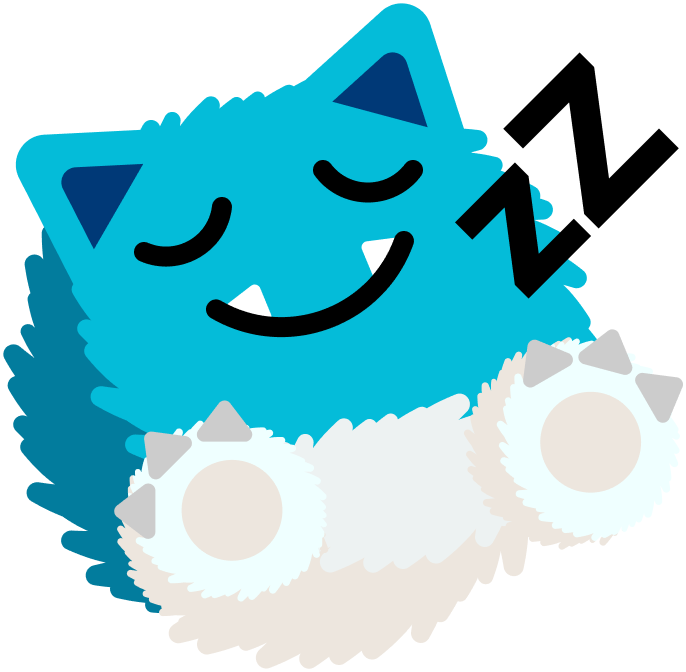
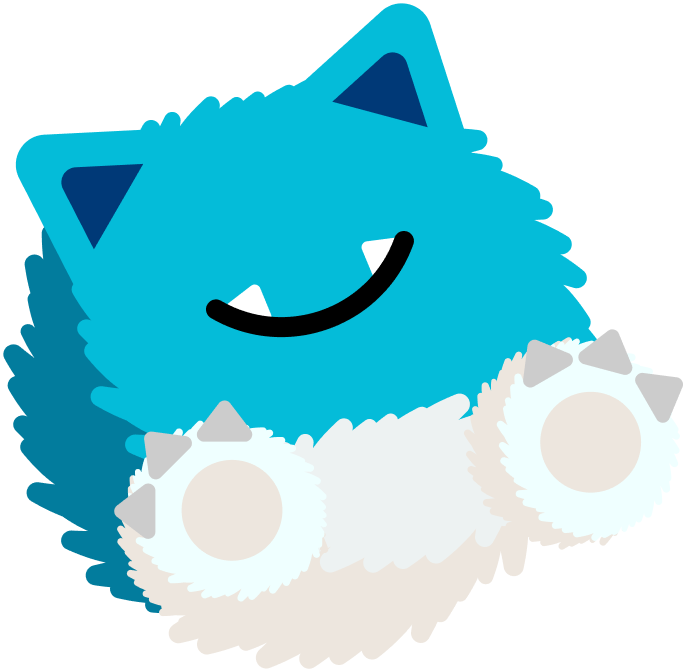
feat: interactive SleepyMascot with CSS eyes and Zzz animation

Changed region(s): [[0.6429, 0.0625, 1.0, 0.4375], [0.1837, 0.2812, 0.3367, 0.4062], [0.4592, 0.2188, 0.6122, 0.3125]]

diff --git a/src/components/SleepyMascot.css b/src/components/SleepyMascot.css
@@ -1,0 +1,156 @@
+.mascot {
+  position: relative;
+  width: 40%;
+  max-width: 10rem;
+  align-self: center;
+  cursor: pointer;
+  user-select: none;
+  -webkit-tap-highlight-color: transparent;
+}
+
+.mascot-img {
+  width: 100%;
+  height: auto;
+  display: block;
+  transition: transform 0.3s ease;
+}
+
+/* Bounce on wake */
+.mascot--awake .mascot-img {
+  animation: mascot-bounce 0.4s ease;
+}
+
+@keyframes mascot-bounce {
+  0% { transform: translateY(0); }
+  30% { transform: translateY(-8%); }
+  50% { transform: translateY(0); }
+  70% { transform: translateY(-4%); }
+  100% { transform: translateY(0); }
+}
+
+/* ── Eyes container ── */
+.mascot-eyes {
+  position: absolute;
+  top: 30%;
+  left: 22%;
+  width: 42%;
+  display: flex;
+  justify-content: space-between;
+}
+
+.mascot-eye {
+  position: relative;
+  width: 38%;
+  aspect-ratio: 1;
+}
+
+/* ── Closed eyes (curved lines) ── */
+.mascot-eye-closed {
+  position: absolute;
+  inset: 0;
+  display: flex;
+  align-items: center;
+  justify-content: center;
+  transition: opacity 0.2s ease;
+}
+
+.mascot-eye-closed::after {
+  content: '';
+  width: 80%;
+  height: 3px;
+  background: #1a1a1a;
+  border-radius: 50%;
+  transform: scaleY(2);
+  clip-path: ellipse(50% 100% at 50% 0%);
+}
+
+.mascot--awake .mascot-eye-closed {
+  opacity: 0;
+}
+
+/* ── Open eyes ── */
+.mascot-eye-open {
+  position: absolute;
+  inset: 10%;
+  background: #fff;
+  border-radius: 50%;
+  border: 2px solid #1a1a1a;
+  display: flex;
+  align-items: center;
+  justify-content: center;
+  opacity: 0;
+  transform: scaleY(0);
+  transition: opacity 0.2s ease, transform 0.25s ease;
+}
+
+.mascot--awake .mascot-eye-open {
+  opacity: 1;
+  transform: scaleY(1);
+}
+
+.mascot-pupil {
+  width: 40%;
+  height: 40%;
+  background: #1a1a1a;
+  border-radius: 50%;
+  transition: transform 0.15s ease;
+}
+
+/* ── Zzz floating animation ── */
+.mascot-zzz {
+  position: absolute;
+  top: 5%;
+  right: -10%;
+  display: flex;
+  flex-direction: column;
+  align-items: flex-start;
+  transition: opacity 0.3s ease;
+}
+
+.mascot--awake .mascot-zzz {
+  opacity: 0;
+}
+
+.mascot-z {
+  font-weight: 900;
+  color: var(--db-text, #1a1a1a);
+  opacity: 0;
+  animation: zzz-float 2.4s ease-in-out infinite;
+}
+
+.mascot-z--1 {
+  font-size: 0.7em;
+  animation-delay: 0s;
+}
+
+.mascot-z--2 {
+  font-size: 1em;
+  animation-delay: 0.8s;
+  transform: translateX(0.4em);
+}
+
+.mascot-z--3 {
+  font-size: 1.3em;
+  animation-delay: 1.6s;
+  transform: translateX(0.9em);
+}
+
+@keyframes zzz-float {
+  0% {
+    opacity: 0;
+    transform: translateY(0) translateX(var(--tx, 0));
+  }
+  15% {
+    opacity: 0.8;
+  }
+  80% {
+    opacity: 0.3;
+  }
+  100% {
+    opacity: 0;
+    transform: translateY(-1.5em) translateX(var(--tx, 0));
+  }
+}
+
+.mascot-z--2 { --tx: 0.4em; }
+.mascot-z--3 { --tx: 0.9em; }

diff --git a/src/components/SleepyMascot.tsx b/src/components/SleepyMascot.tsx
@@ -1,0 +1,54 @@
+import { useState, useCallback, useRef } from 'react'
+import './SleepyMascot.css'
+
+function SleepyMascot() {
+  const [awake, setAwake] = useState(false)
+  const timerRef = useRef<ReturnType<typeof setTimeout> | null>(null)
+
+  const handleTap = useCallback(() => {
+    if (awake) return
+    setAwake(true)
+    if (timerRef.current) clearTimeout(timerRef.current)
+    timerRef.current = setTimeout(() => setAwake(false), 3000)
+  }, [awake])
+
+  return (
+    <div
+      className={`mascot${awake ? ' mascot--awake' : ''}`}
+      onClick={handleTap}
+      role="img"
+      aria-label="Schlafendes Maskottchen"
+    >
+      <img
+        src={`${import.meta.env.BASE_URL}Sleepy.png`}
+        alt=""
+        className="mascot-img"
+      />
+
+      {/* CSS eyes overlay */}
+      <div className="mascot-eyes">
+        <div className="mascot-eye mascot-eye--left">
+          <div className="mascot-eye-closed" />
+          <div className="mascot-eye-open">
+            <div className="mascot-pupil" />
+          </div>
+        </div>
+        <div className="mascot-eye mascot-eye--right">
+          <div className="mascot-eye-closed" />
+          <div className="mascot-eye-open">
+            <div className="mascot-pupil" />
+          </div>
+        </div>
+      </div>
+
+      {/* Zzz animation */}
+      <div className="mascot-zzz">
+        <span className="mascot-z mascot-z--1">z</span>
+        <span className="mascot-z mascot-z--2">z</span>
+        <span className="mascot-z mascot-z--3">z</span>
+      </div>
+    </div>
+  )
+}
+
+export default SleepyMascot

diff --git a/src/views/MeasurementView.tsx b/src/views/MeasurementView.tsx
@@ -1,6 +1,7 @@
 import { useState } from 'react'
 import { Scale, Percent, RulerDimensionLine } from 'lucide-react'
 import Card from '../components/core/Card'
+import SleepyMascot from '../components/SleepyMascot'
 import DailyInputView from './DailyInputView'
 import WeeklyInputView from './WeeklyInputView'
 import './MeasurementView.css'
@@ -14,7 +15,7 @@ function MeasurementView() {
     <div className="measurement-view">
       <h1>Messung</h1>
 
-      <img src={`${import.meta.env.BASE_URL}Sleepy.png`} alt="" className="measurement-hero" />
+      <SleepyMascot />
 
       <div className="measurement-cards">
         <Card

diff --git a/src/views/MeasurementView.css b/src/views/MeasurementView.css
@@ -5,13 +5,6 @@
   padding: var(--spacing-padding);
 }
 
-.measurement-hero {
-  width: 40%;
-  max-width: 10rem;
-  height: auto;
-  align-self: center;
-}
-
 .measurement-cards {
   display: flex;
   flex-direction: column;
